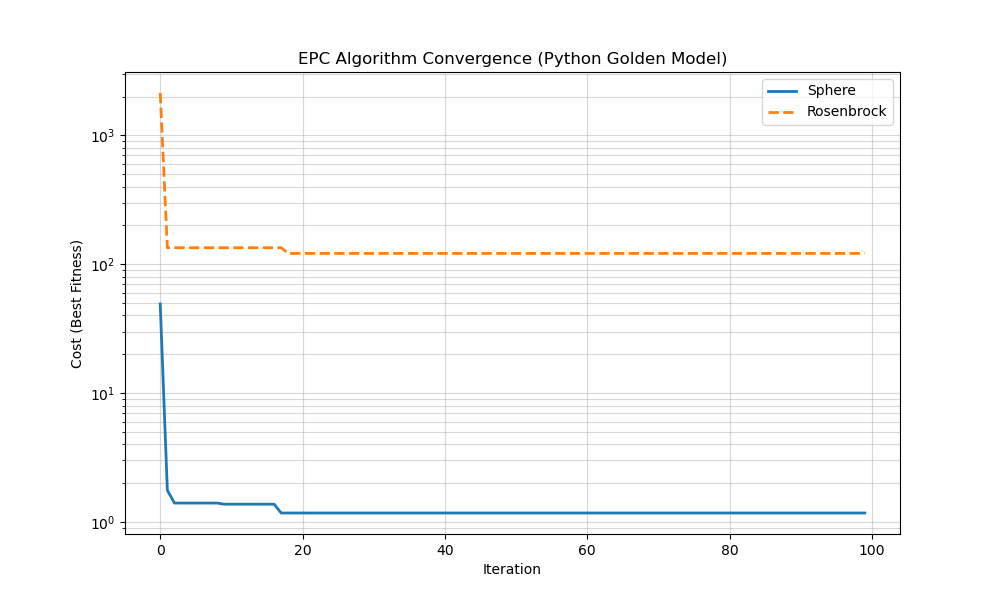
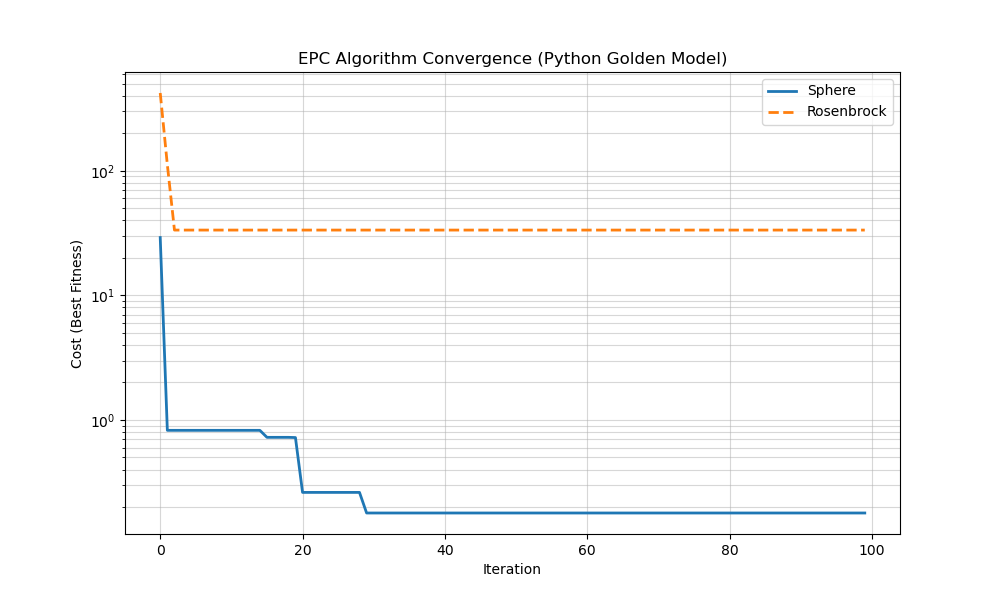
edit the EPC algorithm

Changed region(s): [[0.093, 0.15, 0.899, 0.9]]

diff --git a/tests/epc.py b/tests/epc.py
@@ -39,6 +39,7 @@ class EPC_Optimizer:
         self.fitness = np.zeros(self.pop_size)
         self.best_penguin_pos = np.zeros(self.dim)
         self.best_penguin_score = float('inf')
+        self.best_penguin_idx = -1  
         
         # History for plotting and analysis
         self.convergence_curve = []
@@ -106,82 +107,104 @@ class EPC_Optimizer:
     def run(self):
         """
         Main execution loop of the EPC algorithm.
+        Executes the optimization process for 'max_iter' generations.
         """
         print(f"Starting EPC Optimization on {self.dim}-D Space...")
         
         for t in range(self.max_iter):
-            # 1. Evaluate Fitness
+            # -------------------------------------------------------
+            # Phase 1: Evaluation & Identifying the Leader
+            # -------------------------------------------------------
+            
+            # We need to track the best penguin of the *current* generation
+            # to prevent it from moving (Elitism).
+            current_best_val = float('inf')
+            current_best_idx = -1
+
             for i in range(self.pop_size):
-                # Calculate cost/fitness
+                # 1. Calculate cost/fitness
                 current_cost = self.func(self.population[i])
                 self.fitness[i] = current_cost
                 
-                # Update global best
+                # 2. Identify the best in current population (Local Best)
+                # We save the index to use it later in the movement phase
+                if current_cost < current_best_val:
+                    current_best_val = current_cost
+                    current_best_idx = i
+
+                # 3. Update Global Best (Historical Best)
+                # If this penguin is better than the all-time best, update the record
                 if current_cost < self.best_penguin_score:
                     self.best_penguin_score = current_cost
                     self.best_penguin_pos = self.population[i].copy()
 
-            # Record history
+            # Record history for the convergence plot
             self.convergence_curve.append(self.best_penguin_score)
 
-            # 2. Movement Phase
+            # -------------------------------------------------------
+            # Phase 2: Movement & Update Strategy
+            # -------------------------------------------------------
             new_population = np.zeros_like(self.population)
             
             for i in range(self.pop_size):
-                # The best penguin does not move (elitism)
-                if np.array_equal(self.population[i], self.best_penguin_pos):
+                # [Elitism Strategy]
+                # If this is the best penguin of the current generation, it stays put.
+                # Comparing indices (i == current_best_idx) is safer than comparing arrays.
+                if i == current_best_idx:
                     new_population[i] = self.population[i]
                     continue
 
-                # Calculate Euclidean Distance to the best penguin (Page 6, Eq: 119)
+                # 1. Calculate Euclidean Distance to the Global Best (Page 6, Eq: 119)
                 distance = np.linalg.norm(self.best_penguin_pos - self.population[i])
                 
-                # Calculate Heat/Attraction Q (Page 6, Eq: 111)
-                # Q = e^(-mu * distance)
-                # We limit Q to be within (0, 1]
+                # 2. Calculate Heat/Attraction Q (Page 6, Eq: 111)
+                # Q = e^(-mu * distance) -> Decays as distance increases
                 Q = math.exp(-self.mu * distance)
-                Q = max(0.0001, min(Q, 1.0))
+                Q = max(0.0001, min(Q, 1.0)) # Clamp Q between 0 and 1
 
-                # 3. Spiral Update (Pairwise Strategy)
-                # We iterate through dimensions in pairs (0,1), (2,3), etc.
-                # This aligns with the "Pairwise Decomposition" concept in the doc.
+                # 3. Spiral Update (Pairwise Decomposition Strategy)
+                # We process dimensions in pairs (0,1), (2,3) to apply 2D spiral math.
                 current_penguin = self.population[i]
                 updated_penguin = np.zeros(self.dim)
                 
                 for d in range(0, self.dim, 2):
-                    # Check if we have a pair or a single remaining dimension
                     if d + 1 < self.dim:
-                        # Pair (d, d+1)
+                        # Case A: Pair exists (e.g., dimensions x and y)
                         curr_pair = (current_penguin[d], current_penguin[d+1])
                         best_pair = (self.best_penguin_pos[d], self.best_penguin_pos[d+1])
                         
-                        # Apply spiral math
+                        # Apply spiral math on this 2D plane
                         new_x, new_y = self.calculate_pairwise_spiral(curr_pair, best_pair, Q)
                         
                         updated_penguin[d] = new_x
                         updated_penguin[d+1] = new_y
                     else:
-                        # Handle odd dimension case (just move linearly towards best)
+                        # Case B: Odd dimension remaining (Linear movement)
+                        # Move directly towards the best position scaled by Q
                         updated_penguin[d] = current_penguin[d] + (self.best_penguin_pos[d] - current_penguin[d]) * Q
 
                 # 4. Add Randomness (Exploration) (Page 7, Eq: 134)
-                # x_new += M * u, where u is uniform random in [-1, 1]
+                # Adds a stochastic component to prevent getting stuck in local optima
                 random_step = self.M * (np.random.uniform(-1, 1, self.dim))
                 updated_penguin += random_step
                 
-                # Check boundaries
+                # 5. Boundary Check (Saturation)
                 new_population[i] = self.check_bounds(updated_penguin)
 
-            # Update population and parameters for next iteration
+            # -------------------------------------------------------
+            # Phase 3: Finalize Iteration
+            # -------------------------------------------------------
+            # Synchronous update: Replace old population with the new one
             self.population = new_population
+            
+            # Cool down the parameters (Temperature & Randomness decay)
             self.update_parameters(t)
 
-            # Print progress every 10 iterations
+            # Log progress
             if (t + 1) % 10 == 0:
                 print(f"Iteration {t+1:03d}: Best Cost = {self.best_penguin_score:.6e}")
 
         return self.best_penguin_pos, self.best_penguin_score
-
 # =============================================================================
 # Helper Functions: Benchmarks and Visualization
 # =============================================================================
